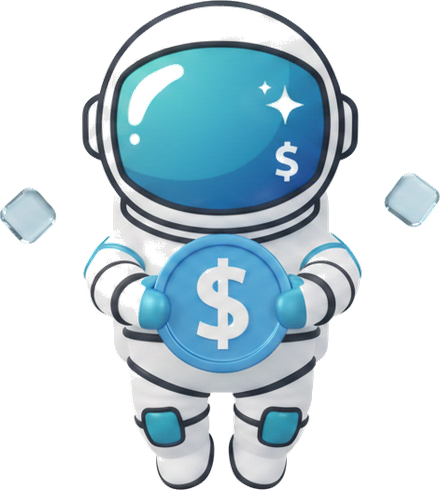
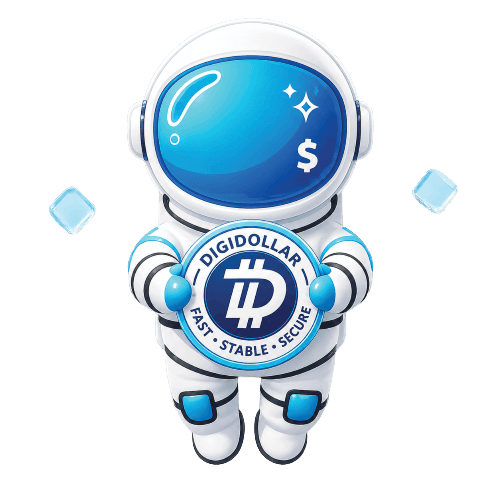
Release v0.1.0 (75b86f5)
Sanitized snapshot of the development tree at 75b86f5, reviewed before publication. Development happens in a private repository; this repo receives reviewed release snapshots.

diff --git a/README.md b/README.md
@@ -1,47 +1,172 @@
 <p align="center">
-  <img src="docs/diginaut-mascot.png" alt="Diginaut" width="180" />
+  <img src="docs/diginaut-mascot.png" alt="DGBclick Wallet" width="180" />
 </p>
 
 <h1 align="center">DGBclick Wallet</h1>
 
-A **non-custodial, browser-based wallet** for [DigiByte](https://digibyte.org)'s **DigiDollar**
-stablecoin. DGBclick Wallet lets a newcomer create a wallet, send and receive DGB, and mint, transfer,
-and redeem DigiDollar — **without running their own node, and without anyone else ever holding
-their keys.**
+<p align="center"><b>Money that answers to you — and only you.</b></p>
+
+## In plain words
+
+DGBclick Wallet is a website that works like a bank account **you** fully own — for digital
+money. You can hold DigiByte (DGB), turn it into **DigiDollar** (a coin built to stay worth
+$1), lock savings for a period you choose, gift them to someone you love, and spend them at
+real merchants.
+
+- **No signup, no app store, no permission slip.** Open the site, make a wallet in seconds.
+- **Only you hold the keys.** They are created on your device and never leave it. There is
+  no company behind the curtain that can touch your balance.
+- **Everything on this page is the exact code the website runs.** You don't have to trust
+  it — you can check it.
+
+👉 **Just want to use it? Go to [wallet.dgbclick.com](https://wallet.dgbclick.com) —
+you never need anything else on this page.** (Want to practice first with play money?
+See [Try it](#try-it) below.)
+
+<p align="center">
+  <img src="docs/screenshots/start-screen.png" alt="Welcome screen — keys are generated in your browser and never leave it" width="240" />
+  &nbsp;
+  <img src="docs/screenshots/get-started-imports.png" alt="Create a wallet, restore a seed or backup, or import from DigiByte Core" width="240" />
+  &nbsp;
+  <img src="docs/screenshots/wallet-dashboard.png" alt="The wallet dashboard — DGB and DigiDollar, Send, Receive, Mint, Treasuries, Spend DD" width="240" />
+</p>
+
+<p align="center"><i>Thirty seconds from opening the site to holding your own keys — and every<br/>
+feature (Send, Receive, Mint, Treasuries, Spend DD) one tap from the balance.</i></p>
+
+## Why this wallet exists
+
+Money is the shape your effort takes. You trade your hours, your skill, your judgment — and
+money is what you hold the value in until you choose to trade it back. That only works when
+money is **yours**: earned, kept, and spent **by consent** — value for value, never by
+decree.
+
+But look at what "your" money usually is. A balance at a bank is an IOU that a stranger can
+freeze. A currency is a promise that someone else dilutes, printing away the hours you
+already traded. A payment app is a gatekeeper that can say no — to a purchase, to a person,
+to a country. Somewhere along the way we accepted that holding money means asking
+permission.
+
+It doesn't have to.
+
+This wallet is built on a simple conviction: **the person who earned the money is the only
+person who should have a say over it.** Not a better bank — no bank. Not a nicer gatekeeper —
+no gate. Just you, your keys, and arithmetic that treats everyone exactly the same, whether
+they move ten dollars or ten million.
+
+When someone tells you that your money should answer to them, they are telling you what they
+plan to do with it. This wallet is the alternative: money that keeps its promises because no
+one can make it break them.
+
+## What you can do with it
+
+### 🔑 Hold money that's actually yours
+
+If someone else can say no, it was never yours. Your wallet is a seed phrase — twelve words
+that exist only with you. No account to close, no balance to freeze, no terms of service
+standing between you and what you earned. Lose the device? Your words restore everything,
+anywhere on Earth, in seconds.
+
+### ⚡ Send value without asking anyone
+
+A father wiring money home shouldn't pay a toll to three companies and wait three days for
+the privilege. Sending DGB settles in seconds, for a fraction of a cent, to any person on
+the planet with a phone — on a Sunday, across a border, at 3 a.m. No business hours. No
+"pending review." The network doesn't care who you are, and that's the point.
+
+### 💵 Make your money steady — without a bank
+
+Saving in a currency that melts is running up a down escalator. **DigiDollar** is DigiByte's
+decentralized stablecoin: you mint it by locking DGB as collateral, and it's built to hold
+$1 of value — not because a company promises there's a dollar in a vault somewhere, but
+because the collateral and the rules are enforced by the network itself, in the open. Your
+paycheck, your prices, your plans — steady. No bank account required.
+
+### 🔒 Save with a lock *you* set
+
+Everyone knows the person who dips into savings "just this once." Sometimes it's us.
+**Treasury vaults** turn a promise into arithmetic: lock DGB for a month, a year, ten years —
+and the network itself refuses to release it early. Not a penalty fee you can pay to break
+your word. A door with no handle until the day you chose.
+
+- The college fund that survives every emergency but the real one.
+- The house deposit that can't become a vacation.
+- The retirement money your future self will thank you for — because your present self
+  couldn't touch it.
+
+Split your savings into as many independent vaults as you like — one per goal, one per
+child, one per dream — each with its own date, each minting its own steady DigiDollar.
+
+### 🎁 Give a gift no one can take back
+
+Ordinary gifts of money come with invisible strings: a bank that can reverse it, an app that
+can claw it back, a parent who means well. A **gift key** is different — the moment it's
+created, the vault belongs to the recipient, locked until the date *you* set, and not even
+you can undo it. A graduation fund that opens at eighteen. A wedding gift that waits for the
+first home. A head start for someone you believe in — delivered as twelve words on paper,
+with no middleman in between.
+
+### 🛍 Spend it in the real world
+
+Money you can't spend is a collectible. The built-in **Spend DD directory** lists merchants
+who take DigiDollar directly — paid in stable value, settled in seconds, with no card
+network skimming three percent off someone else's honest work. Every merchant on that list
+is someone trading value for value, the way money was meant to move.
+
+## Why you can trust it
+
+Trust should be something you verify, not something you're asked for.
+
+- **Your keys never leave your device.** Every transaction is built and signed in your
+  browser; the servers only ever see data that's already public.
+- **The code here is the code that runs.** This repository is a reviewed snapshot of exactly
+  what serves [wallet.dgbclick.com](https://wallet.dgbclick.com).
+- **Tested against the network itself.** Before any fund-moving code ships, its transactions
+  must match DigiByte Core's byte-for-byte — proven, not promised.
+- **Audited for hostile conditions** — hostile browsers, dropped connections, malicious
+  infrastructure — and the findings are public in [AUDIT.md](AUDIT.md).
+
+No signup. No custody. No permission. Just money that works the way you do.
+
+## Try it
+
+- **The real thing:** <https://wallet.dgbclick.com> — mainnet, real funds, real DigiDollar
+  (active on DigiByte mainnet since block 23,869,440; backed by a DigiByte Core **v9.26.5**
+  node).
+- **Practice with play money:** <https://dgb.ludere.space> — a permanent **testnet**
+  instance. Create a wallet, claim free valueless test DGB from the built-in faucet, and run
+  the full mint / lock / gift / redeem cycle end-to-end.
+- **The upstream author's instance:** <https://diginaut.ludere.space> — the project this
+  fork builds on.
+- **Run your own:** everything you need is in this repo — see
+  [docs/SELF-HOSTING.md](docs/SELF-HOSTING.md). Money that answers to you can also be
+  *served* by you.
+
+> DigiDollar minting is a DigiByte softfork. On testnet it is already active; on mainnet it
+> activates network-wide at the softfork block. DGBclick Wallet enables the mint flow
+> automatically once the node it talks to reports DigiDollar active — the same build serves
+> every network.
+
+---
+
+## For developers
+
+A **non-custodial, browser-based wallet** for [DigiByte](https://digibyte.org)'s
+**DigiDollar** stablecoin: create a wallet, send and receive DGB, and mint, transfer, and
+redeem DigiDollar — **without running a node, and without anyone else ever holding the
+keys.** This fork adds **Treasury Wallets** — split DGB into many independent, time-locked,
+individually giftable vaults ([spec](docs/treasury-wallets-spec.md),
+[use cases](docs/treasury-use-cases.md)) — including **trustless gifting at creation** via
+Gift keys (the recipient owns the position from its first block; Core-wallet recipients are
+first-class, [proven on regtest](docs/discovery/core-recipient-gift-findings.md)), a
+resumable self-retrying batch engine, server-push block events, and encrypted GitHub
+backup/restore.
 
 > Built on the open-source [diginaut-wallet](https://github.com/tonymorony/diginaut-wallet) by Anton Lysakov (MIT).
 >
 > This public repository receives **reviewed release snapshots** — development happens in a
 > private repository, and each release here is a sanitized copy of exactly what runs at
 > [wallet.dgbclick.com](https://wallet.dgbclick.com). Issues and PRs are welcome against this repo.
-
-DigiDollar is DigiByte's decentralized, USD-pegged stablecoin: you mint it by locking DGB as
-collateral for a chosen lock period, and redeem it to release that collateral. DGBclick Wallet builds and
-signs every consensus transaction in your browser.
-
-> **This fork** adds **Treasury Wallets**: split DGB into many independent, time-locked,
-> individually giftable vaults, each minting $100+ of DigiDollar
-> ([spec](docs/treasury-wallets-spec.md), [use cases](docs/treasury-use-cases.md)) — including
-> **trustless gifting at creation** via Gift keys (the recipient owns the position from its
-> first block; Core-wallet recipients are first-class,
-> [proven on regtest](docs/discovery/core-recipient-gift-findings.md)), a resumable
-> self-retrying batch engine, server-push block events, and encrypted GitHub backup/restore.
-> It is also hardened for hostile browser and network conditions ([AUDIT.md](AUDIT.md)) and
-> runs live on **mainnet** at **<https://wallet.dgbclick.com>**, backed by its own DigiByte
-> Core **v9.26.5** node (DigiDollar active on mainnet since block 23,869,440). Upstream
-> project: [tonymorony/diginaut-wallet](https://github.com/tonymorony/diginaut-wallet).
-
-**Try it: <https://wallet.dgbclick.com>** (this fork, mainnet — real funds), or the upstream
-author's instance at <https://diginaut.ludere.space> — create a wallet in seconds and explore the full
-dashboard, mint calculator, and send/receive flows. A permanent **testnet instance at
-<https://dgb.ludere.space>** lets you exercise the complete mint / transfer / redeem cycle with
-valueless coins: create a wallet, claim testnet DGB from the built-in faucet, and mint DigiDollar
-end-to-end. Both run the full stack in this repo against a DigiByte Core **v9.26.4** node with a
-real oracle price feed. Want to host your own? See [docs/SELF-HOSTING.md](docs/SELF-HOSTING.md).
-
-> DigiDollar minting is a DigiByte softfork. On testnet it is already active; on mainnet it
-> activates network-wide at the softfork block. DGBclick Wallet enables the mint flow automatically once
-> the node it talks to reports DigiDollar active — the same build serves every network.
 
 ## How it works
 
@@ -129,9 +254,9 @@ dual-network deployment names the exact build it runs: `curl -s <domain>/api/con
 
 ## License
 
-[MIT](LICENSE) © Anton Lysakov. All packages in this monorepo are MIT-licensed; the
-publishable `digidollar-js` library carries its own copy of the license. Third-party
-dependencies (`@noble/*`, `@scure/*`, `qrcode-generator`) are MIT.
+[MIT](LICENSE) © Anton Lysakov and DGBclick (dgbclick.com). All packages in this monorepo are
+MIT-licensed; the publishable `digidollar-js` library carries its own copy of the license.
+Third-party dependencies (`@noble/*`, `@scure/*`, `qrcode-generator`) are MIT.
 
 This software is provided for demonstration and educational purposes, **as is** and without
 warranty of any kind (see the license). You are solely responsible for any funds or keys you
